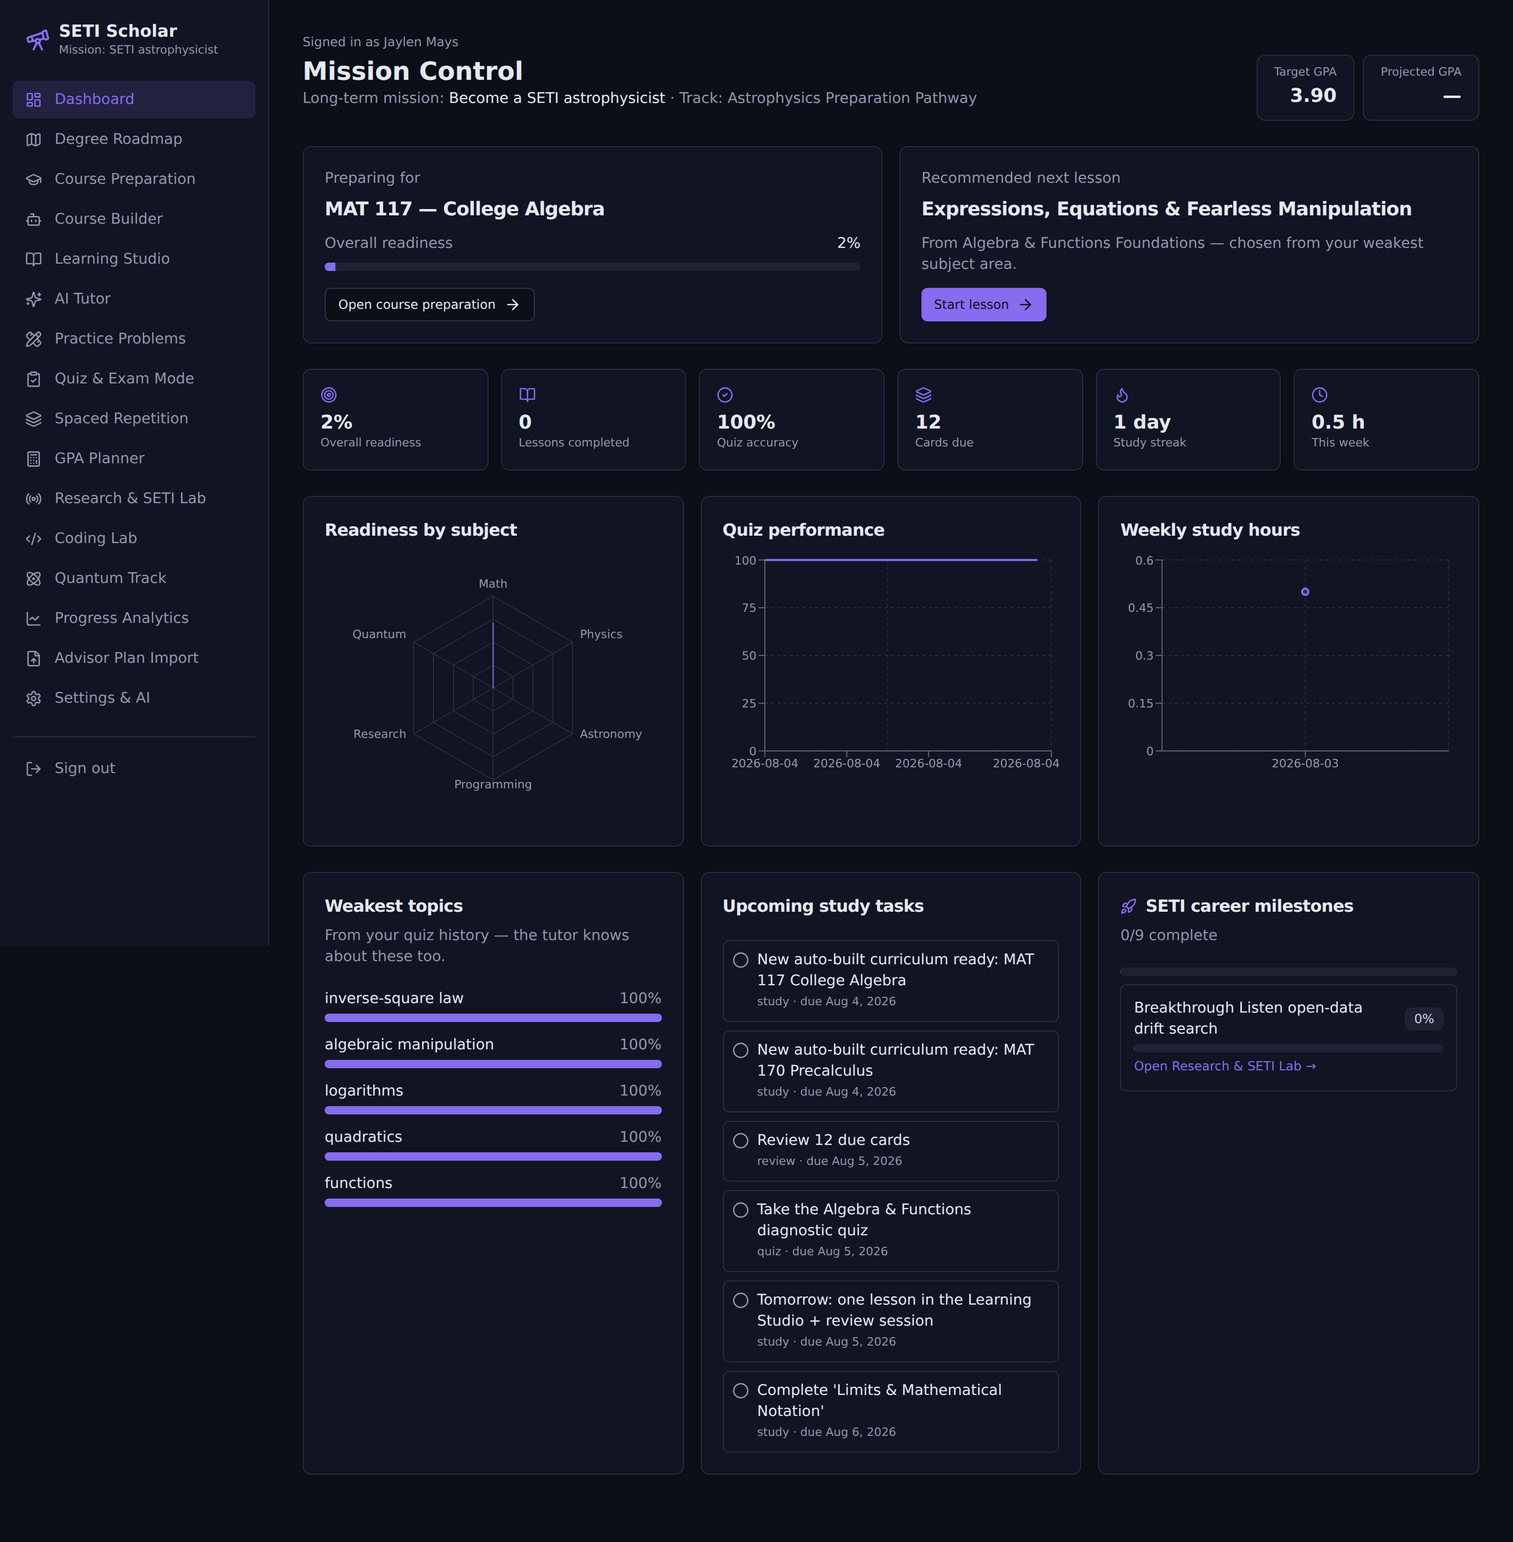
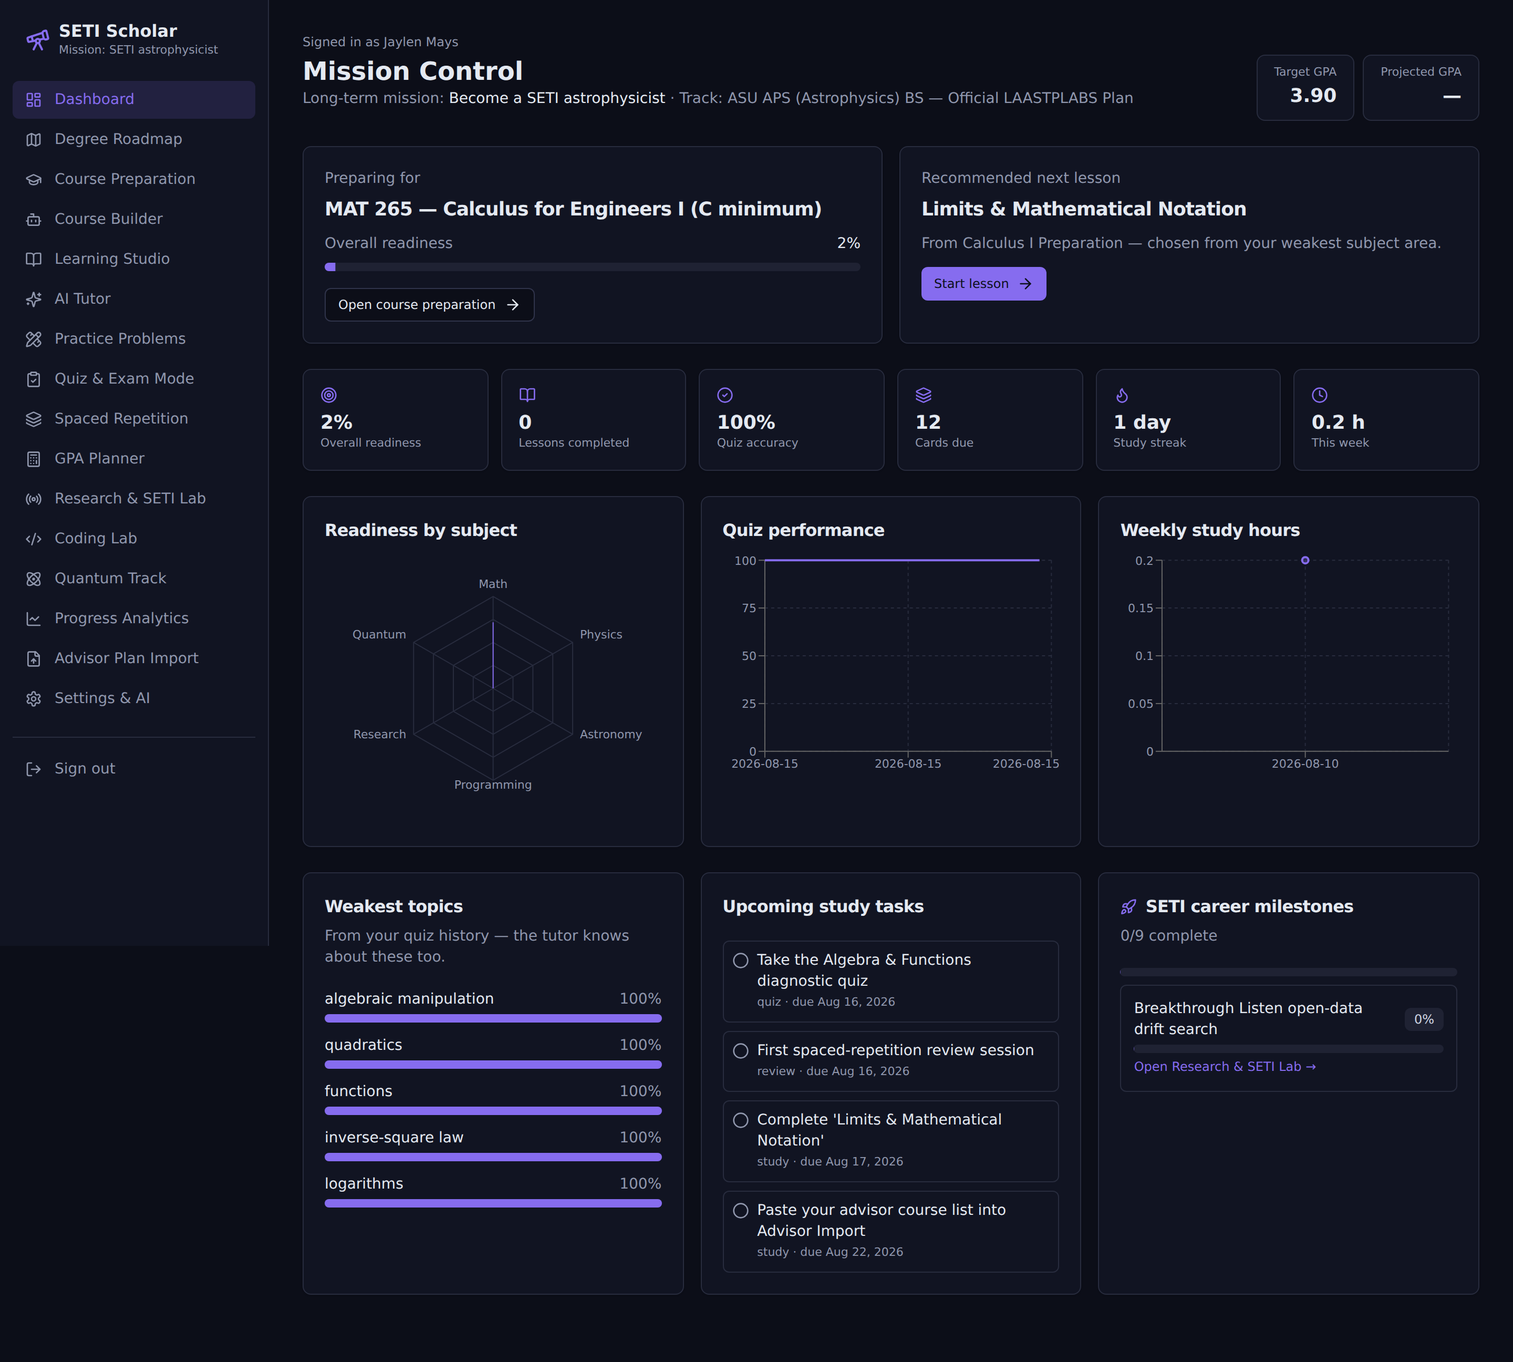
Import official ASU LAASTPLABS degree plan from eAdvisor/DARS
Replaces the draft APS path with the confirmed degree: BS Astronomical
and Planetary Sciences (Astrophysics), ASU Online, Fall 2026 catalog,
transcribed from the eAdvisor Major Map and DARS audit:

- Official course list with exact DARS credit hours (AST 111/112 and
  SES 106 at 4 cr; PHY 122/132/202 at 1 cr), C-minimum notes, session
  notes, and term placement for a Fall 2026 start through Spring 2030
- 11 applied transfer credits recorded (UA Global Campus, U of Kansas,
  CCAF) with grades and terms; T-grades correctly excluded from GPA
- Gen-studies status from the audit: HUAD/SOBE/MATH/CIVI satisfied;
  GCSI, SUST, AMIT, QTRS, SCIT and Science & Society slots planned
- Concentration-elective slot lists the approved DARS course options
- New import script (npm run import:asu-map) applies the plan to an
  existing account, activates it, and sets MAT 265 as current focus;
  new-user provisioning now defaults to the official plan
- Catalog subject matching extended for SES/PHY 241/PHY 201-202 codes
- Refreshed dashboard/roadmap screenshots; e2e updated for the new
  active path (10/10 passing desktop + mobile, 69 unit tests passing)

Claude-Session: https://claude.ai/code/session_01SKYnwUJ7JTj5vnRwBPVEie

diff --git a/seti-scholar/src/lib/asu-aps-map.ts b/seti-scholar/src/lib/asu-aps-map.ts
@@ -1,0 +1,94 @@
+/**
+ * The OFFICIAL ASU degree plan, transcribed from Jaylen's eAdvisor Major Map
+ * and DARS audit (LA APS-A BS — Astronomical and Planetary Sciences,
+ * Astrophysics concentration, ASU Online, Fall 2026 / 2026-27 catalog).
+ *
+ * Credit hours and requirement structure come from the DARS audit
+ * (prepared 08/15/2026). Term placement follows the 8-term major map,
+ * assuming a Fall 2026 start (Term 1 = Fall 2026, Term 2 = Spring 2027, …).
+ * Course titles marked "(confirm title in ASU catalog)" are requirement slots
+ * whose official titles weren't shown in the audit text.
+ */
+
+import type { CourseTemplate } from "./roadmap-templates";
+
+export interface TransferCredit {
+  code: string;
+  title: string;
+  credits: number;
+  grade: string;
+  semester: "Fall" | "Spring" | "Summer";
+  year: number;
+  satisfies: string; // which requirement bucket this filled
+}
+
+/** Transfer credits APPLIED to specific requirements or degree electives (DARS: 33.0 hrs applied of 67.5 accepted). */
+export const ASU_TRANSFER_CREDITS: TransferCredit[] = [
+  { code: "ENG 101", title: "English Composition I (transfer: UA Global ENG 121)", credits: 3, grade: "TB+", semester: "Spring", year: 2016, satisfies: "First-Year Composition" },
+  { code: "ENG 102", title: "English Composition II (transfer: UA Global ENG 122)", credits: 3, grade: "TC", semester: "Summer", year: 2016, satisfies: "First-Year Composition" },
+  { code: "MAT 170", title: "Precalculus (transfer: U of Kansas MATH 104)", credits: 3, grade: "TA", semester: "Fall", year: 2020, satisfies: "Gen Studies MATH + College math proficiency" },
+  { code: "PHI 101", title: "Introduction to Philosophy (transfer: U of Kansas PHIL 140)", credits: 3, grade: "TA", semester: "Spring", year: 2017, satisfies: "Gen Studies HUAD (1 of 2)" },
+  { code: "PHI 105", title: "Introduction to Ethics (transfer: U of Kansas PHIL 160)", credits: 3, grade: "TA", semester: "Fall", year: 2020, satisfies: "Gen Studies HUAD (2 of 2)" },
+  { code: "PSY DEC", title: "Adult Development (transfer: UA Global PSY 202)", credits: 3, grade: "TC", semester: "Spring", year: 2016, satisfies: "Gen Studies SOBE" },
+  { code: "COM 225", title: "Public Speaking (transfer: U of Kansas COMS 130)", credits: 3, grade: "TA", semester: "Fall", year: 2017, satisfies: "Gen Studies CIVI" },
+  { code: "AST DEC", title: "Contemporary Astronomy (transfer: U of Kansas ASTR 191)", credits: 3, grade: "TA", semester: "Spring", year: 2017, satisfies: "Degree elective" },
+  { code: "GEN 002", title: "Personal Dimensions of Education (transfer: UA Global EXP 105)", credits: 3, grade: "TB+", semester: "Spring", year: 2016, satisfies: "Degree elective" },
+  { code: "GEN 004", title: "Computer Literacy (transfer: UA Global INF 103)", credits: 3, grade: "TA", semester: "Summer", year: 2016, satisfies: "Degree elective" },
+  { code: "ABS DEC", title: "Intro to Environmental Science (transfer: UA Global ENV 100)", credits: 3, grade: "TC-", semester: "Fall", year: 2016, satisfies: "Degree elective" },
+];
+
+/**
+ * Remaining requirements, in major-map term order (Fall 2026 start).
+ * ASU 101 is waived (NOTFTF — not a first-time freshman).
+ */
+export const ASU_APS_REMAINING: CourseTemplate[] = [
+  // ---- Term 1 · Fall 2026 -------------------------------------------------
+  { code: "MAT 265", title: "Calculus for Engineers I (C minimum)", category: "MATH", credits: 3, prerequisites: ["MAT 170"], prepSubjectKeys: ["calc1-prep"], isGradPrereq: true, semester: "Fall", year: 2026 },
+  { code: "AST 111", title: "Introduction to Solar Systems Astronomy (C minimum)", category: "ASTRONOMY", credits: 4, prerequisites: [], prepSubjectKeys: ["astronomy-prep"], semester: "Fall", year: 2026 },
+  // ---- Term 2 · Spring 2027 ----------------------------------------------
+  { code: "AST 112", title: "Introduction to Stars, Galaxies & the Universe (C minimum)", category: "ASTRONOMY", credits: 4, prerequisites: [], prepSubjectKeys: ["astronomy-prep", "stellar-prep"], semester: "Spring", year: 2027 },
+  { code: "MAT 266", title: "Calculus for Engineers II (C minimum)", category: "MATH", credits: 3, prerequisites: ["MAT 265"], prepSubjectKeys: ["calc2-prep"], isGradPrereq: true, semester: "Spring", year: 2027 },
+  { code: "PHY 121", title: "University Physics I: Mechanics (C minimum)", category: "PHYSICS", credits: 3, prerequisites: ["MAT 265"], prepSubjectKeys: ["physics1-prep"], isGradPrereq: true, semester: "Spring", year: 2027 },
+  { code: "PHY 122", title: "University Physics Laboratory I (C minimum)", category: "PHYSICS", credits: 1, prerequisites: ["PHY 121"], prepSubjectKeys: ["physics1-prep"], semester: "Spring", year: 2027 },
+  // ---- Term 3 · Fall 2027 -------------------------------------------------
+  { code: "MAT 267", title: "Calculus for Engineers III (C minimum)", category: "MATH", credits: 3, prerequisites: ["MAT 266"], prepSubjectKeys: ["calc3-prep"], isGradPrereq: true, semester: "Fall", year: 2027 },
+  { code: "GS GCSI", title: "Global Communities, Societies & Individuals — gen studies (3 hrs)", category: "GENERAL", credits: 3, prerequisites: [], prepSubjectKeys: [], semester: "Fall", year: 2027 },
+  { code: "PHY 131", title: "University Physics II: Electricity & Magnetism (C minimum)", category: "PHYSICS", credits: 3, prerequisites: ["PHY 121", "MAT 266"], prepSubjectKeys: ["physics2-prep"], isGradPrereq: true, semester: "Fall", year: 2027 },
+  { code: "PHY 132", title: "University Physics Laboratory II (C minimum)", category: "PHYSICS", credits: 1, prerequisites: ["PHY 131"], prepSubjectKeys: ["physics2-prep"], semester: "Fall", year: 2027 },
+  { code: "MAT 275", title: "Modern Differential Equations (C minimum)", category: "MATH", credits: 3, prerequisites: ["MAT 266"], prepSubjectKeys: ["diffeq-prep"], isGradPrereq: true, semester: "Fall", year: 2027 },
+  // ---- Term 4 · Spring 2028 ----------------------------------------------
+  { code: "PHY 202", title: "Physics requirement — 1 hr (confirm title in ASU catalog)", category: "PHYSICS", credits: 1, prerequisites: ["PHY 121"], prepSubjectKeys: ["calc3-prep", "linear-algebra-prep"], semester: "Spring", year: 2028 },
+  { code: "PHY 241", title: "University Physics III (C minimum)", category: "PHYSICS", credits: 3, prerequisites: ["PHY 131", "MAT 267"], prepSubjectKeys: ["modern-physics-prep"], isGradPrereq: true, semester: "Spring", year: 2028 },
+  { code: "PHY 201", title: "Mathematical Methods in Physics (confirm title in ASU catalog)", category: "PHYSICS", credits: 3, prerequisites: ["MAT 266"], prepSubjectKeys: ["calc3-prep", "diffeq-prep", "linear-algebra-prep"], isGradPrereq: true, semester: "Spring", year: 2028 },
+  { code: "SES 106", title: "Habitable Worlds (C minimum)", category: "ASTRONOMY", credits: 4, prerequisites: [], prepSubjectKeys: ["astronomy-prep"], semester: "Spring", year: 2028 },
+  // ---- Term 5 · Fall 2028 -------------------------------------------------
+  { code: "SES 350", title: "SESE core course (confirm title in ASU catalog; C minimum)", category: "ASTRONOMY", credits: 3, prerequisites: ["AST 112"], prepSubjectKeys: ["astronomy-prep", "scientific-python-prep"], semester: "Fall", year: 2028 },
+  { code: "S&S ELEC", title: "Science & Society elective (approved list; C minimum)", category: "GENERAL", credits: 3, prerequisites: [], prepSubjectKeys: [], semester: "Fall", year: 2028 },
+  { code: "GS SUST", title: "Sustainability — gen studies (3 hrs)", category: "GENERAL", credits: 3, prerequisites: [], prepSubjectKeys: [], semester: "Fall", year: 2028 },
+  // ---- Term 6 · Spring 2029 ----------------------------------------------
+  { code: "AST 321", title: "Introduction to Planetary & Stellar Astrophysics (Session C; C minimum)", category: "ASTRONOMY", credits: 3, prerequisites: ["AST 112", "PHY 121", "MAT 266"], prepSubjectKeys: ["stellar-prep"], isGradPrereq: true, semester: "Spring", year: 2029 },
+  { code: "SES 376", title: "SESE core course (confirm title in ASU catalog; C minimum)", category: "ASTRONOMY", credits: 3, prerequisites: ["SES 106"], prepSubjectKeys: ["astronomy-prep"], semester: "Spring", year: 2029 },
+  { code: "SES 377", title: "SESE core course (confirm title in ASU catalog; C minimum)", category: "ASTRONOMY", credits: 3, prerequisites: ["SES 106"], prepSubjectKeys: ["astronomy-prep"], semester: "Spring", year: 2029 },
+  // ---- Term 7 · Fall 2029 -------------------------------------------------
+  { code: "AST 322", title: "Introduction to Galactic & Extragalactic Astrophysics (Session C; C minimum)", category: "ASTRONOMY", credits: 3, prerequisites: ["AST 321"], prepSubjectKeys: ["stellar-prep"], isGradPrereq: true, semester: "Fall", year: 2029 },
+  { code: "SES 421", title: "SESE concentration course (confirm title in ASU catalog; C minimum)", category: "ASTRONOMY", credits: 3, prerequisites: ["SES 350"], prepSubjectKeys: ["stellar-prep", "scientific-python-prep"], semester: "Fall", year: 2029 },
+  { code: "APS ELEC", title: "UD Concentration elective — pick from PHY 302/310/311/315/361/441, SES 499 (C min)", category: "PHYSICS", credits: 3, prerequisites: ["PHY 131"], prepSubjectKeys: ["physics2-prep", "quantum-prep"], semester: "Fall", year: 2029 },
+  // ---- Term 8 · Spring 2030 ----------------------------------------------
+  { code: "AST 421", title: "Advanced astrophysics (confirm title in ASU catalog; C minimum)", category: "ASTRONOMY", credits: 3, prerequisites: ["AST 322"], prepSubjectKeys: ["stellar-prep"], isGradPrereq: true, semester: "Spring", year: 2030 },
+  { code: "GS AMIT", title: "American Institutions — gen studies (3 hrs)", category: "GENERAL", credits: 3, prerequisites: [], prepSubjectKeys: [], semester: "Spring", year: 2030 },
+  { code: "UD S&S", title: "Upper-division Science & Society elective (C minimum)", category: "GENERAL", credits: 3, prerequisites: [], prepSubjectKeys: [], semester: "Spring", year: 2030 },
+  { code: "GS QTRS", title: "Quantitative Reasoning — gen studies (3 hrs; often satisfied in-major — confirm with advisor)", category: "GENERAL", credits: 3, prerequisites: [], prepSubjectKeys: [], semester: "Spring", year: 2030 },
+  { code: "UD ELEC", title: "Upper-division electives (~12 hrs toward the 45-hr UD minimum)", category: "GENERAL", credits: 12, prerequisites: [], prepSubjectKeys: [], semester: "Spring", year: 2030 },
+];
+
+export const ASU_APS_PATH = {
+  name: "ASU APS (Astrophysics) BS — Official LAASTPLABS Plan",
+  notes:
+    "Transcribed from your eAdvisor Major Map + DARS audit (prepared 08/15/2026, Fall 2026 catalog). " +
+    "Official DARS status: 67.5 transfer hours accepted, 33.0 applied to requirements; 52.5 hours remaining " +
+    "(120 total, 45 UD minimum, 30 ASU-resident minimum). Some gen-studies rows below (SCIT, QTRS) typically " +
+    "double-count with major courses like AST 111 and SES 106, so the app's credit estimate can read higher than " +
+    "DARS — DARS is the official number. ASU 101 waived (not a first-time freshman). Note: the audit also shows " +
+    "an Astronomy Minor block — confirm with your advisor whether that's an active declaration, since it overlaps " +
+    "the major. Recommended concentration elective for the SETI goal: PHY 441 (Statistical Mechanics) or PHY 311.",
+};

diff --git a/seti-scholar/scripts/import-asu-aps-map.ts b/seti-scholar/scripts/import-asu-aps-map.ts
@@ -1,0 +1,77 @@
+/**
+ * Applies the official ASU LAASTPLABS plan (eAdvisor Major Map + DARS audit)
+ * to an existing account: replaces the user's APS_BS path with the official
+ * course list, records the transfer credits, activates the path, and sets
+ * MAT 265 (the first critical requirement, Fall 2026) as the current focus.
+ *
+ *   npm run import:asu-map            # applies to the demo user
+ *   npx tsx scripts/import-asu-aps-map.ts you@example.com
+ */
+
+import { PrismaClient } from "@prisma/client";
+import { PATH_TEMPLATES } from "../src/lib/roadmap-templates";
+
+const db = new PrismaClient();
+
+async function main() {
+  const email = process.argv[2] ?? "jaylen@setischolar.dev";
+  const user = await db.user.findUnique({ where: { email } });
+  if (!user) {
+    console.error(`No user found for ${email}`);
+    process.exit(1);
+  }
+
+  const template = PATH_TEMPLATES.find((t) => t.type === "APS_BS");
+  if (!template) throw new Error("APS_BS template missing");
+
+  // Replace any existing APS path with the official plan.
+  await db.degreePath.deleteMany({ where: { userId: user.id, type: "APS_BS" } });
+  await db.degreePath.updateMany({ where: { userId: user.id }, data: { isActive: false } });
+
+  const path = await db.degreePath.create({
+    data: {
+      userId: user.id,
+      name: template.name,
+      type: "APS_BS",
+      isActive: true,
+      notes: template.notes,
+      courses: {
+        create: template.courses.map((c, i) => ({
+          code: c.code,
+          title: c.title,
+          category: c.category,
+          credits: c.credits,
+          sortOrder: i,
+          prerequisites: c.prerequisites,
+          prepSubjectKeys: c.prepSubjectKeys,
+          isGradPrereq: c.isGradPrereq ?? false,
+          semester: c.semester ?? null,
+          year: c.year ?? null,
+          grade: c.grade ?? null,
+          isTransfer: c.isTransfer ?? false,
+          status: c.status ?? "PLANNED",
+        })),
+      },
+    },
+    include: { courses: true },
+  });
+
+  // First critical requirement (Fall 2026) becomes the current focus.
+  await db.course.updateMany({
+    where: { degreePathId: path.id, code: "MAT 265" },
+    data: { status: "PREPARING" },
+  });
+
+  const transfer = path.courses.filter((c) => c.isTransfer).length;
+  console.log(
+    `Applied official ASU APS (Astrophysics) plan for ${email}: ` +
+      `${path.courses.length} rows (${transfer} transfer credits), active path set, MAT 265 in focus.`,
+  );
+}
+
+main()
+  .catch((e) => {
+    console.error(e);
+    process.exit(1);
+  })
+  .finally(() => db.$disconnect());

diff --git a/seti-scholar/src/lib/roadmap-templates.ts b/seti-scholar/src/lib/roadmap-templates.ts
@@ -29,7 +29,15 @@ export interface CourseTemplate {
   prerequisites: string[];
   prepSubjectKeys: string[];
   isGradPrereq?: boolean;
+  // Optional term placement / completion data (used by the official ASU map).
+  semester?: "Fall" | "Spring" | "Summer";
+  year?: number;
+  grade?: string;
+  isTransfer?: boolean;
+  status?: "PLANNED" | "PREPARING" | "IN_PROGRESS" | "COMPLETED" | "TRANSFER";
 }
+
+import { ASU_APS_PATH, ASU_APS_REMAINING, ASU_TRANSFER_CREDITS } from "./asu-aps-map";
 
 export interface PathTemplate {
   name: string;
@@ -107,9 +115,9 @@ export const PATH_TEMPLATES: PathTemplate[] = [
   {
     name: "Astrophysics Preparation Pathway",
     type: "CUSTOM_ASTROPHYSICS",
-    isActive: true,
+    isActive: false,
     notes:
-      "Customized preparation pathway toward SETI astrophysics. Subject equivalents — swap in exact ASU course numbers once advising confirms the degree plan.",
+      "Customized preparation pathway toward SETI astrophysics — supplemental subject equivalents beyond the official ASU degree plan.",
     courses: [...MATH_CORE, ...PHYSICS_CORE, ...ASTRO_CORE, ...PROGRAMMING_CORE],
   },
   {
@@ -126,16 +134,31 @@ export const PATH_TEMPLATES: PathTemplate[] = [
     ],
   },
   {
-    name: "ASU Online Astronomical & Planetary Sciences BS (draft)",
+    name: ASU_APS_PATH.name,
     type: "APS_BS",
-    isActive: false,
-    notes:
-      "Draft plan modeled on the ASU Online Astronomical & Planetary Sciences BS. Confirm exact requirements with your ASU advisor.",
+    isActive: true,
+    notes: ASU_APS_PATH.notes,
     courses: [
-      ...MATH_CORE.filter((c) => ["MAT 117", "MAT 170", "MAT 265", "MAT 266", "STP 420"].includes(c.code)),
-      ...PHYSICS_CORE.filter((c) => ["PHY 121", "PHY 131", "PHY 201"].includes(c.code)),
-      ...ASTRO_CORE,
-      ...PROGRAMMING_CORE.slice(0, 2),
+      ...ASU_TRANSFER_CREDITS.map(
+        (t): CourseTemplate => ({
+          code: t.code,
+          title: `${t.title} — satisfies: ${t.satisfies}`,
+          category: t.code.startsWith("MAT")
+            ? "MATH"
+            : t.code.startsWith("AST")
+              ? "ASTRONOMY"
+              : "GENERAL",
+          credits: t.credits,
+          prerequisites: [],
+          prepSubjectKeys: [],
+          semester: t.semester,
+          year: t.year,
+          grade: t.grade,
+          isTransfer: true,
+          status: "TRANSFER",
+        }),
+      ),
+      ...ASU_APS_REMAINING,
     ],
   },
   {

diff --git a/seti-scholar/src/lib/agents/catalog.ts b/seti-scholar/src/lib/agents/catalog.ts
@@ -338,7 +338,7 @@ export const SUBJECT_PROFILES: SubjectProfile[] = [
   },
   {
     key: "linear-algebra",
-    match: ["mat 342", "linear algebra"],
+    match: ["mat 342", "linear algebra", "phy 201", "phy 202", "mathematical methods"],
     keywords: ["linear algebra", "matrix", "vector", "eigenvalue", "transformation"],
     objectives: [
       "Solve linear systems with Gaussian elimination",
@@ -736,7 +736,7 @@ export const SUBJECT_PROFILES: SubjectProfile[] = [
   },
   {
     key: "quantum-modern",
-    match: ["phy 201", "modern physics", "phy 314", "quantum mechanics", "phy 441", "statistical", "thermodynamics", "phy 320"],
+    match: ["modern physics", "phy 314", "quantum mechanics", "phy 441", "statistical", "thermodynamics", "phy 320", "phy 241", "university physics iii"],
     keywords: ["quantum", "relativity", "photon", "wavefunction", "modern physics", "thermodynamics", "entropy"],
     objectives: [
       "Apply special relativity: time dilation, length contraction, E = mc²",
@@ -853,7 +853,7 @@ export const SUBJECT_PROFILES: SubjectProfile[] = [
   },
   {
     key: "astronomy-intro",
-    match: ["ast 111", "ast 112", "ast 113", "introduction to astronomy", "solar system", "stars, galaxies"],
+    match: ["ast 111", "ast 112", "ast 113", "ast 321", "ast 322", "ast 421", "ses 106", "ses 350", "ses 376", "ses 377", "ses 421", "introduction to astronomy", "solar system", "stars, galaxies", "habitable worlds", "astrophysics"],
     keywords: ["astronomy", "stars", "planets", "telescopes", "spectra", "orbits", "galaxies"],
     objectives: [
       "Use scientific notation and astronomical distance units fluently",

diff --git a/seti-scholar/e2e/app.spec.ts b/seti-scholar/e2e/app.spec.ts
@@ -27,7 +27,12 @@ test("login → dashboard → core sections", async ({ page }) => {
   // Roadmap
   await page.goto("/roadmap");
   await expect(page.getByRole("heading", { name: "Degree Roadmap" })).toBeVisible();
-  await expect(page.getByText("Astrophysics Preparation Pathway").first()).toBeVisible();
+  await expect(
+    page.getByRole("button", { name: /Astrophysics Preparation Pathway/ }),
+  ).toBeVisible();
+  await expect(
+    page.getByRole("button", { name: /ASU APS \(Astrophysics\) BS — Official/ }),
+  ).toBeVisible();
 
   // Learning studio
   await page.goto("/studio");

diff --git a/seti-scholar/src/lib/provision.ts b/seti-scholar/src/lib/provision.ts
@@ -33,6 +33,11 @@ export async function provisionNewUser(userId: string) {
               prerequisites: c.prerequisites,
               prepSubjectKeys: c.prepSubjectKeys,
               isGradPrereq: c.isGradPrereq ?? false,
+              semester: c.semester ?? null,
+              year: c.year ?? null,
+              grade: c.grade ?? null,
+              isTransfer: c.isTransfer ?? false,
+              status: c.status ?? "PLANNED",
             })),
           },
         },
